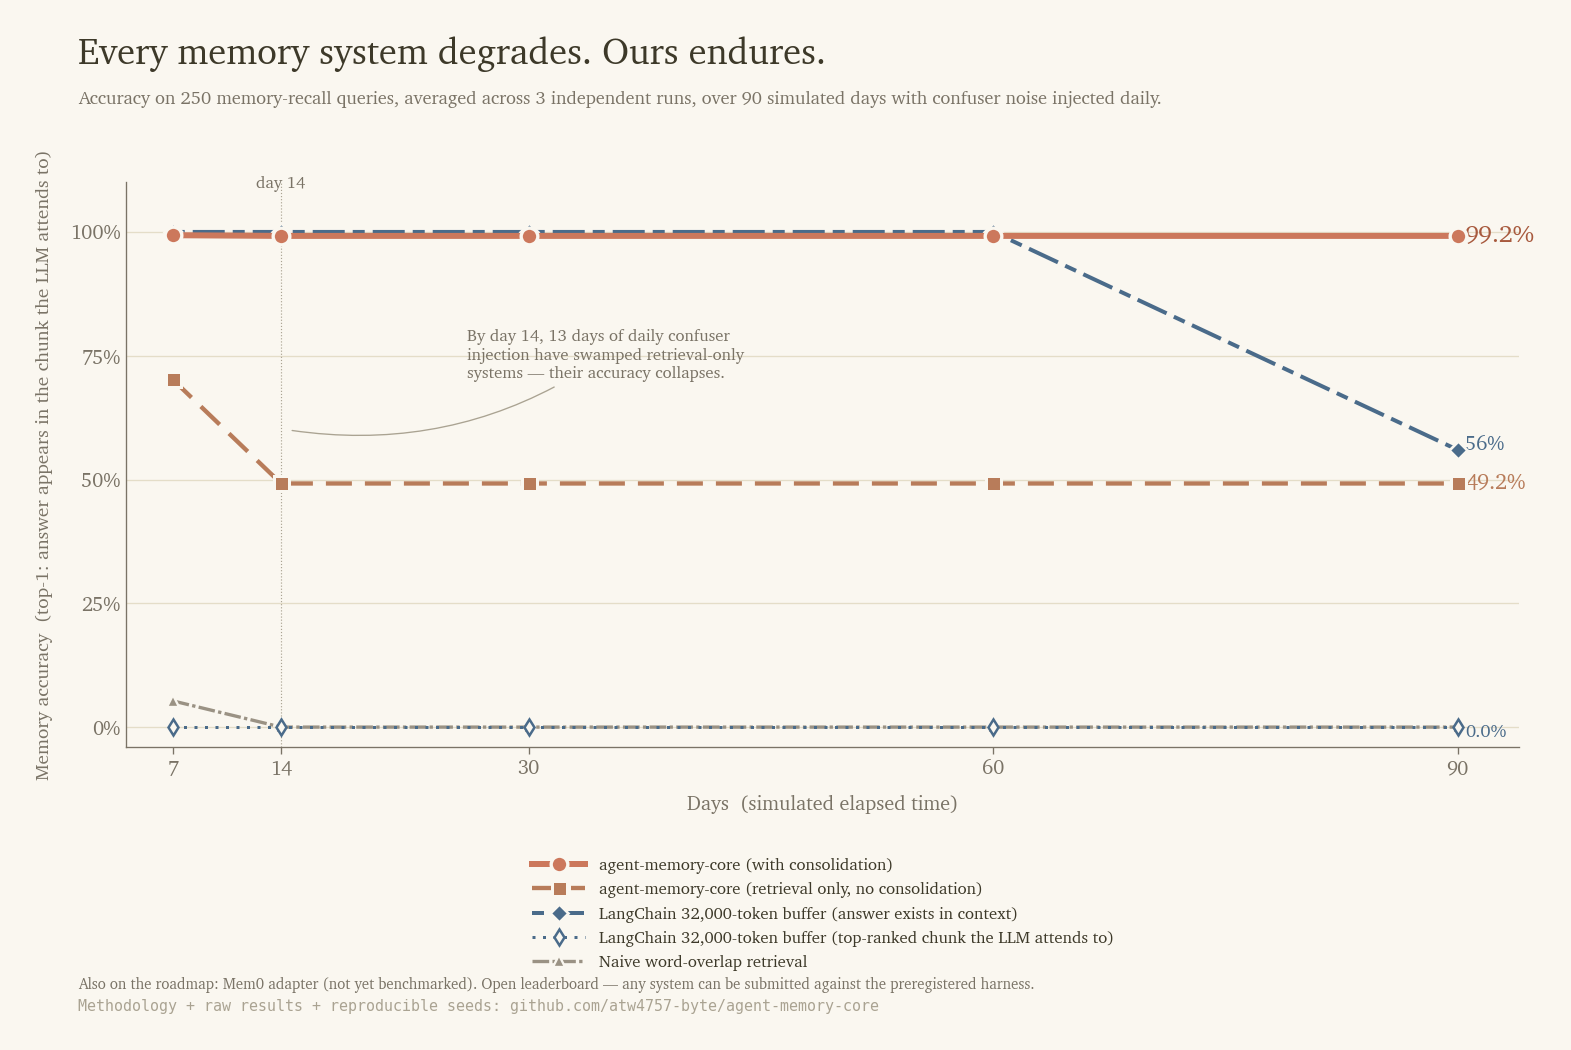
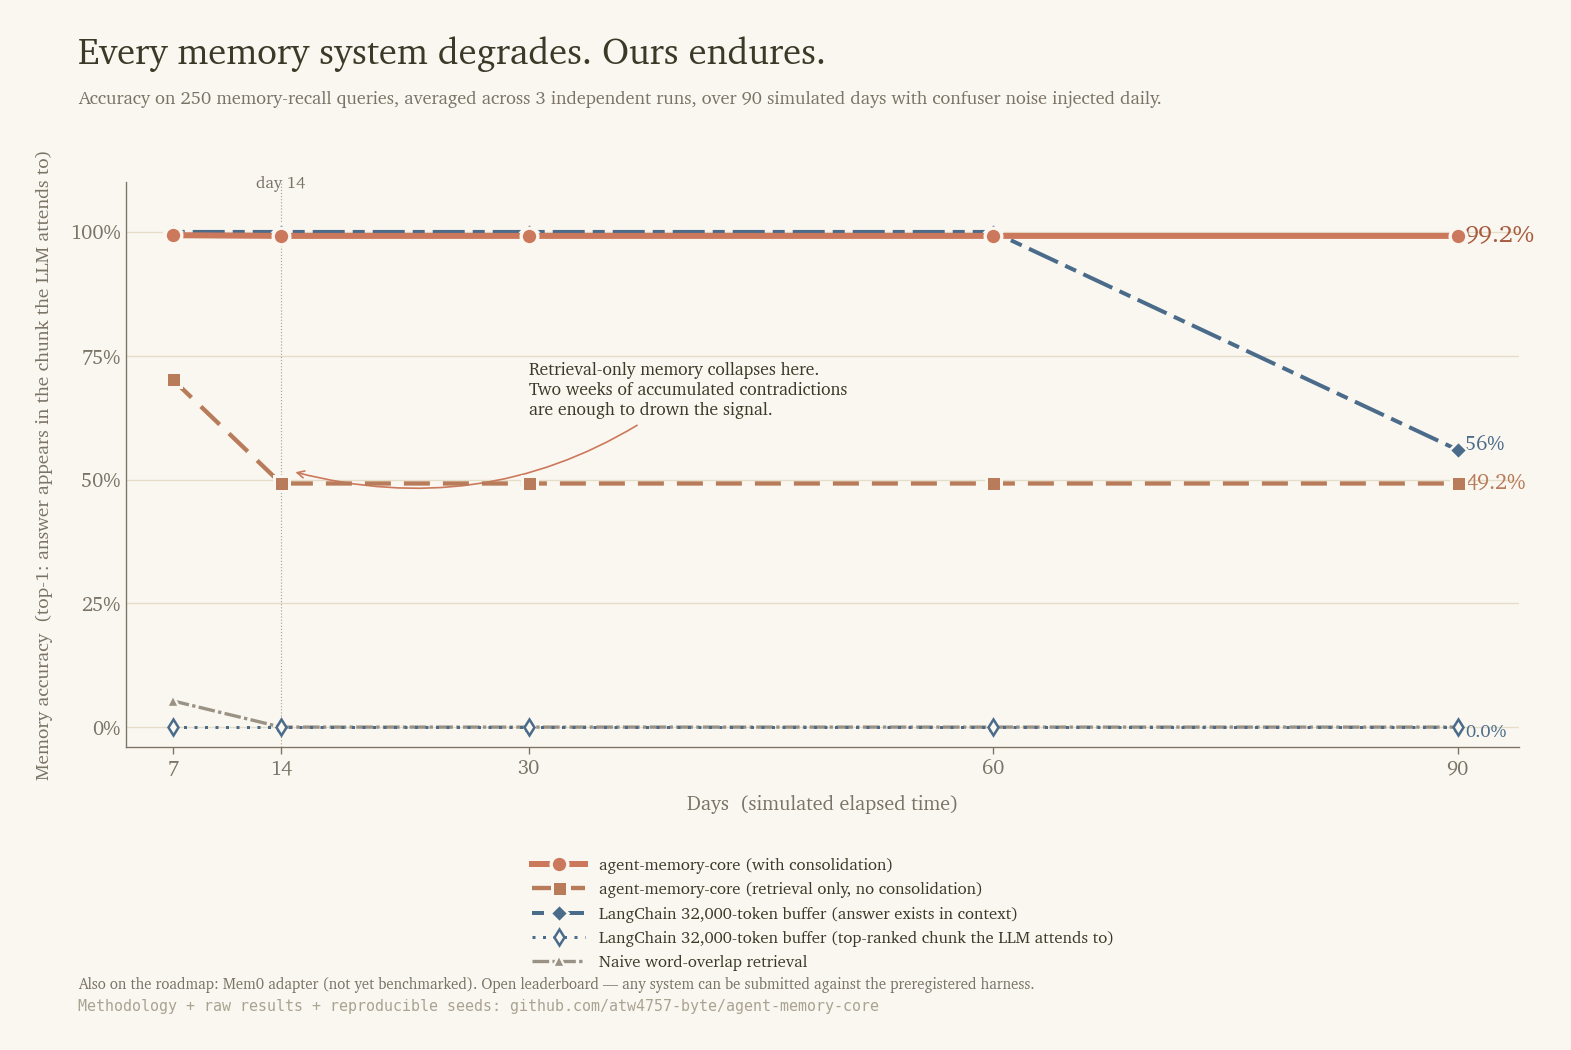
AMC: sharpen day-14 annotation + add multi-OS install block
- Day-14 annotation rewritten: 'Retrieval-only memory collapses here'
  with orange arrow pointing to the collapse point (was muted/ambiguous)
- New install block above hero chart — tabs for pip / brew / uv / Docker
  so macOS/Linux users see the one-liner without hunting the README

Changed region(s): [[0.2807, 0.3048, 0.5302, 0.3962]]

diff --git a/amc/index.html b/amc/index.html
@@ -109,7 +109,48 @@
     .hero-num-val.accent { color: var(--accent-dk); }
     .hero-num-label { font-family: var(--mono); font-size: 11px; color: var(--ink-muted); letter-spacing: .08em; text-transform: uppercase; }
 
-    .cta-row { display: flex; flex-wrap: wrap; gap: 14px; margin-bottom: 72px; }
+    .cta-row { display: flex; flex-wrap: wrap; gap: 14px; margin-bottom: 32px; }
+
+    .install {
+      margin: 0 0 56px;
+      background: var(--ink-strong); color: var(--bg);
+      border-radius: var(--radius-lg);
+      padding: 20px 24px;
+      box-shadow: 0 14px 40px rgba(61,57,41,.12);
+    }
+    .install-head {
+      display: flex; align-items: center; justify-content: space-between;
+      gap: 16px; flex-wrap: wrap; margin-bottom: 14px;
+    }
+    .install-label {
+      font-family: var(--mono); font-size: 11px; letter-spacing: .14em;
+      text-transform: uppercase; color: rgba(250,247,240,.55);
+    }
+    .install-tabs { display: flex; gap: 4px; }
+    .install-tab {
+      font-family: var(--mono); font-size: 11px; letter-spacing: .08em;
+      background: transparent; border: 1px solid rgba(250,247,240,.18);
+      color: rgba(250,247,240,.7); padding: 5px 11px; border-radius: 4px;
+      cursor: pointer; text-transform: uppercase; transition: all .12s ease;
+    }
+    .install-tab:hover { color: var(--bg); border-color: rgba(250,247,240,.4); }
+    .install-tab.active {
+      background: var(--accent); border-color: var(--accent); color: var(--bg);
+    }
+    .install-cmd {
+      font-family: var(--mono); font-size: 15px; line-height: 1.5;
+      color: var(--bg); padding: 2px 0; overflow-x: auto; white-space: nowrap;
+    }
+    .install-cmd .prompt { color: rgba(250,247,240,.4); user-select: none; }
+    .install-cmd .flag { color: #e6a87a; }
+    .install-cmd[hidden] { display: none; }
+    .install-foot {
+      font-family: var(--mono); font-size: 11px; color: rgba(250,247,240,.5);
+      margin-top: 12px; letter-spacing: .04em;
+    }
+    @media (max-width: 540px) {
+      .install-cmd { font-size: 13px; }
+    }
     .btn {
       display: inline-flex; align-items: center; gap: 8px;
       font-family: var(--sans); font-size: 15px; font-weight: 600;
@@ -290,6 +331,23 @@
     <div class="cta-row">
       <a href="#benchmark" class="btn btn-primary">See the benchmark</a>
       <a href="https://github.com/atw4757-byte/agent-memory-core" target="_blank" rel="noopener" class="btn btn-ghost">GitHub</a>
+    </div>
+
+    <div class="install reveal" role="region" aria-label="Install agent-memory-core">
+      <div class="install-head">
+        <span class="install-label">Install</span>
+        <div class="install-tabs" role="tablist">
+          <button type="button" class="install-tab active" data-target="cmd-pip" role="tab" aria-selected="true">pip</button>
+          <button type="button" class="install-tab" data-target="cmd-brew" role="tab" aria-selected="false">macOS · brew</button>
+          <button type="button" class="install-tab" data-target="cmd-uv" role="tab" aria-selected="false">uv</button>
+          <button type="button" class="install-tab" data-target="cmd-docker" role="tab" aria-selected="false">Docker</button>
+        </div>
+      </div>
+      <div class="install-cmd" id="cmd-pip" role="tabpanel"><span class="prompt">$ </span>pip install agent-memory-core</div>
+      <div class="install-cmd" id="cmd-brew" role="tabpanel" hidden><span class="prompt">$ </span>brew install atw4757-byte/tap/agent-memory-core</div>
+      <div class="install-cmd" id="cmd-uv" role="tabpanel" hidden><span class="prompt">$ </span>uv add agent-memory-core</div>
+      <div class="install-cmd" id="cmd-docker" role="tabpanel" hidden><span class="prompt">$ </span>docker run <span class="flag">--rm</span> ghcr.io/atw4757-byte/agent-memory-core:latest</div>
+      <div class="install-foot">Apache-2.0 · Python 3.10+ · Linux &amp; macOS (arm64/x86_64)</div>
     </div>
 
     <figure class="hero-chart reveal">
@@ -487,6 +545,21 @@
     });
   }, { threshold: 0.1, rootMargin: "0px 0px -32px 0px" });
   document.querySelectorAll(".reveal").forEach(el => observer.observe(el));
+
+  // Install tabs
+  document.querySelectorAll(".install-tab").forEach(tab => {
+    tab.addEventListener("click", () => {
+      const group = tab.closest(".install");
+      group.querySelectorAll(".install-tab").forEach(t => {
+        t.classList.remove("active");
+        t.setAttribute("aria-selected", "false");
+      });
+      group.querySelectorAll(".install-cmd").forEach(c => c.hidden = true);
+      tab.classList.add("active");
+      tab.setAttribute("aria-selected", "true");
+      document.getElementById(tab.dataset.target).hidden = false;
+    });
+  });
 </script>
 
 </body>
